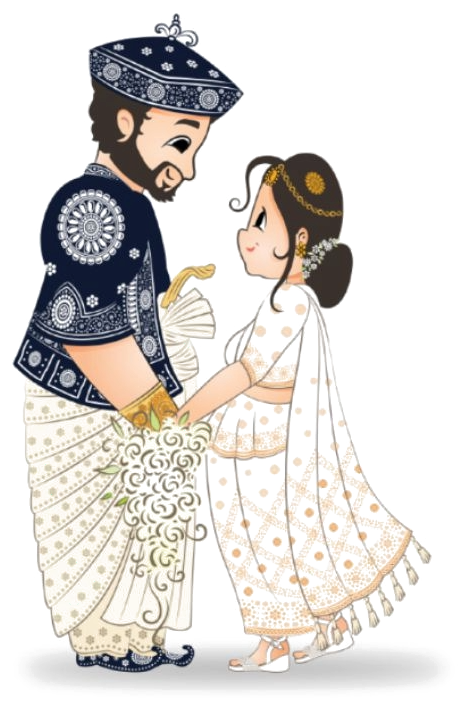
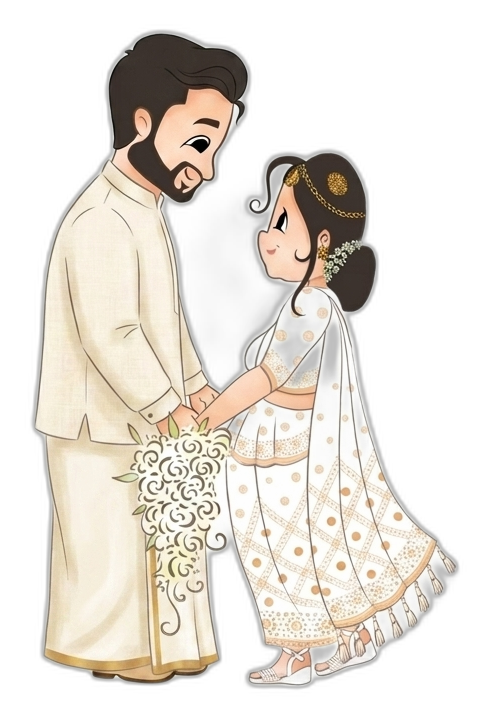
Remove background from hero couple illustration, update ceremony details
The hero image had a baked-in white background rather than real
transparency; re-processed it with background removal and tightly
cropped it so it blends into the mandala backdrop.

diff --git a/public/index.html b/public/index.html
@@ -488,7 +488,7 @@
     Wednesday, the 11th of November, 2026
   </p>
   <p class="reveal relative font-body text-terracotta-dark/90 text-xs italic mb-10">
-    Poruwa Ceremony at 9:40 AM &middot; Hotel Deandra, Bolgoda
+    Hotel Deandra, Bolgoda
   </p>
 
   <!-- Countdown -->
@@ -540,8 +540,8 @@
       <h3 class="font-heading text-3xl text-maroon mb-2">Poruwa Ceremony</h3>
       <div class="gold-line w-16 mx-auto my-4"></div>
       <p class="font-body text-sm text-maroon-dark/80 mb-1"><span class="font-semibold">Date:</span> Wednesday, 11 November 2026</p>
-      <p class="font-body text-sm text-maroon-dark/80 mb-1"><span class="font-semibold">Time:</span> 9:40 AM</p>
-      <p class="font-body text-sm text-maroon-dark/80"><span class="font-semibold">Dress Code:</span> Traditional Sri Lankan Attire</p>
+      <p class="font-body text-sm text-maroon-dark/80 mb-1"><span class="font-semibold">Time:</span> 8:45 AM</p>
+    
     </div>
 
     <!-- Reception -->
@@ -552,7 +552,7 @@
       <div class="gold-line w-16 mx-auto my-4"></div>
       <p class="font-body text-sm text-maroon-dark/80 mb-1"><span class="font-semibold">Date:</span> Wednesday, 11 November 2026</p>
       <p class="font-body text-sm text-maroon-dark/80 mb-1"><span class="font-semibold">Time:</span> 10:00 AM &ndash; 4:00 PM</p>
-      <p class="font-body text-sm text-maroon-dark/80"><span class="font-semibold">Dress Code:</span> Formal / Traditional</p>
+
     </div>
 
   </div>

diff --git a/index.html b/index.html
@@ -504,8 +504,8 @@
       <h3 class="font-heading text-3xl text-maroon mb-2">Poruwa Ceremony</h3>
       <div class="gold-line w-16 mx-auto my-4"></div>
       <p class="font-body text-sm text-maroon-dark/80 mb-1"><span class="font-semibold">Date:</span> Wednesday, 11 November 2026</p>
-      <p class="font-body text-sm text-maroon-dark/80 mb-1"><span class="font-semibold">Time:</span> 9:40 AM</p>
-      <p class="font-body text-sm text-maroon-dark/80"><span class="font-semibold">Dress Code:</span> Traditional Sri Lankan Attire</p>
+      <p class="font-body text-sm text-maroon-dark/80 mb-1"><span class="font-semibold">Time:</span> 8:45 AM</p>
+      
     </div>
 
     <!-- Reception -->
